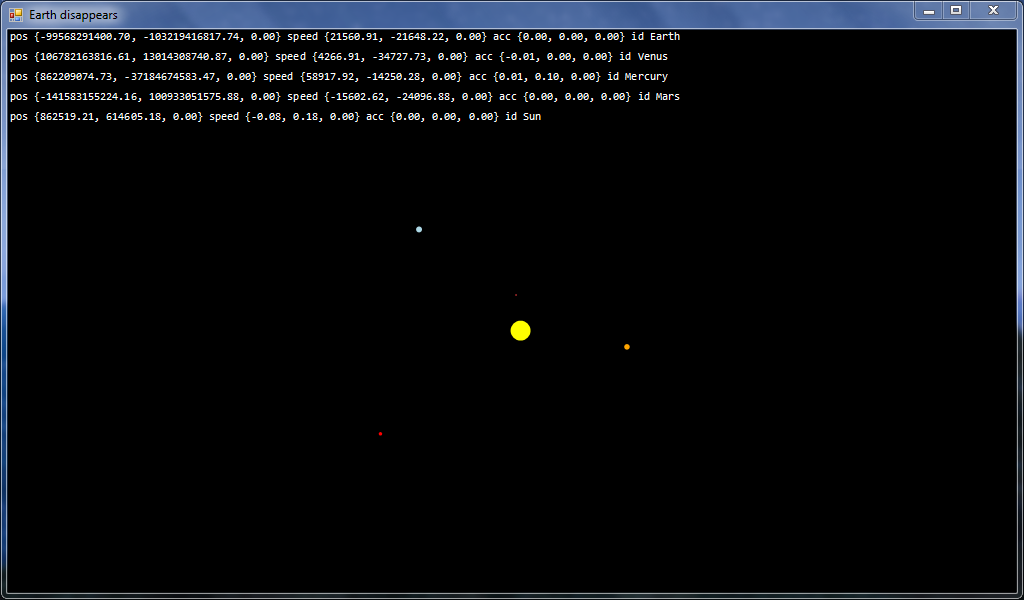
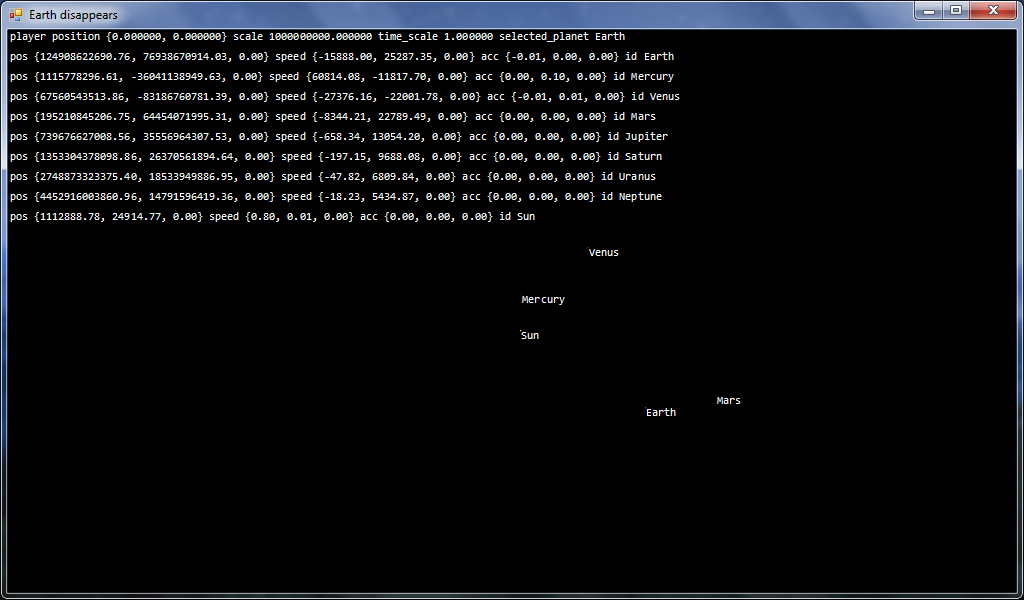
The real size of the planets, moving to the chosen planet, and something else.

diff --git a/README.md b/README.md
@@ -20,4 +20,4 @@ Simple Solar System simulator written in F#.
 
 ## Controls
 
-“W”, “A”, “S”, “D” – move, “+”, “-” – control time speed, “,”, “.” – control scale.
+“W”, “A”, “S”, “D” – move, “+”, “-” – control time speed, “,”, “.” – control scale, “8” – move to selected planet, “9”, “0” – select planet.
